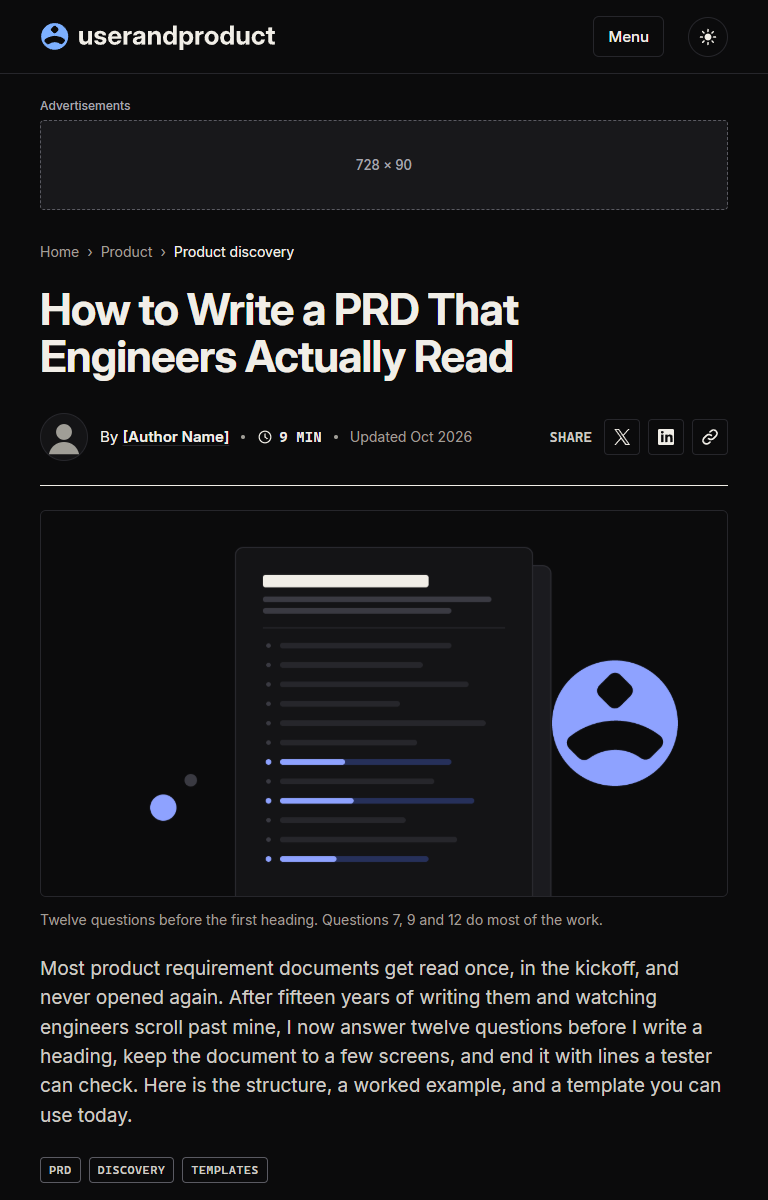
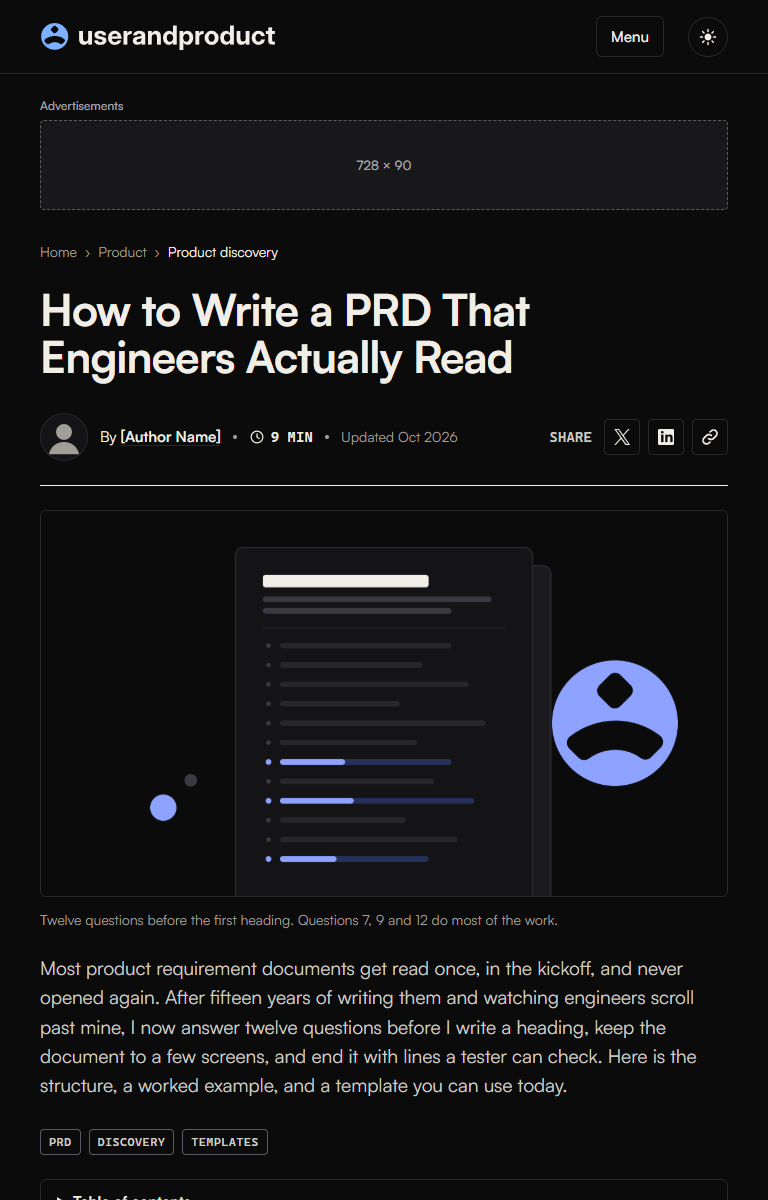
Mockups set in Satoshi (font files local only under the ITF licence); preloads updated

diff --git a/research/mockups/mockup.css b/research/mockups/mockup.css
@@ -2,7 +2,13 @@
    Plain CSS, no build step. Page-specific layout lives next to each page.
    option-1/ carries its own copy (option-1/css/mockup.css, option-1/js/mockup.js); this one is for the other mockup folders. */
 
-/* ---------- Fonts (self-hosted, SIL OFL) ---------- */
+/* ---------- Fonts (self-hosted) ---------- */
+/* Satoshi (ITF Free Font License, fonts/satoshi/): the mockup face for text, UI and headings.
+   One variable file per style covers the 300 to 900 weight axis (400 body, 500 labels, 600, 700 and 900 headings). */
+@font-face{font-family:"Satoshi";src:url("fonts/satoshi/Satoshi-Variable.woff2") format("woff2");font-weight:300 900;font-style:normal;font-display:swap}
+@font-face{font-family:"Satoshi";src:url("fonts/satoshi/Satoshi-VariableItalic.woff2") format("woff2");font-weight:300 900;font-style:italic;font-display:swap}
+/* Inter and Fraunces (SIL OFL): kept but no longer used by any token; the browser does not fetch an unused face.
+   The logo wordmark is outlined SVG (Inter Display Bold) and does not depend on these rules. */
 @font-face{font-family:"Inter Display";src:url("fonts/inter/InterDisplay-Bold.woff2") format("woff2");font-weight:700;font-style:normal;font-display:swap}
 @font-face{font-family:"Inter Display";src:url("fonts/inter/InterDisplay-SemiBold.woff2") format("woff2");font-weight:600;font-style:normal;font-display:swap}
 @font-face{font-family:"Inter";src:url("fonts/inter/Inter-Regular.woff2") format("woff2");font-weight:400;font-style:normal;font-display:swap}
@@ -32,9 +38,9 @@
   --focus:#2B46A0;
   --logo-light:block; --logo-dark:none;
 
-  --font-display:"Inter Display","Inter",system-ui,-apple-system,"Segoe UI",Roboto,sans-serif;
-  --font-ui:"Inter",system-ui,-apple-system,"Segoe UI",Roboto,sans-serif;
-  --font-serif:"Fraunces",Georgia,"Times New Roman",serif;
+  --font-display:"Satoshi",system-ui,-apple-system,"Segoe UI",Roboto,sans-serif;
+  --font-ui:"Satoshi",system-ui,-apple-system,"Segoe UI",Roboto,sans-serif;
+  --font-serif:"Fraunces",Georgia,"Times New Roman",serif;   /* unused since the switch to Satoshi */
   --font-body:var(--font-ui);
 
   /* type scale (desktop; pages step down on phones) */

diff --git a/research/mockups/option-1/css/mockup.css b/research/mockups/option-1/css/mockup.css
@@ -1,7 +1,13 @@
 /* userandproduct mockups: shared tokens, type and components.
    Plain CSS, no build step. Page-specific layout lives next to each page. */
 
-/* ---------- Fonts (self-hosted, SIL OFL) ---------- */
+/* ---------- Fonts (self-hosted) ---------- */
+/* Satoshi (ITF Free Font License, fonts/satoshi/): the mockup face for text, UI and headings.
+   One variable file per style covers the 300 to 900 weight axis (400 body, 500 labels, 600, 700 and 900 headings). */
+@font-face{font-family:"Satoshi";src:url("../assets/fonts/satoshi/Satoshi-Variable.woff2") format("woff2");font-weight:300 900;font-style:normal;font-display:swap}
+@font-face{font-family:"Satoshi";src:url("../assets/fonts/satoshi/Satoshi-VariableItalic.woff2") format("woff2");font-weight:300 900;font-style:italic;font-display:swap}
+/* Inter and Fraunces (SIL OFL): kept but no longer used by any token; the browser does not fetch an unused face.
+   The logo wordmark is outlined SVG (Inter Display Bold) and does not depend on these rules. */
 @font-face{font-family:"Inter Display";src:url("../assets/fonts/inter/InterDisplay-Bold.woff2") format("woff2");font-weight:700;font-style:normal;font-display:swap}
 @font-face{font-family:"Inter Display";src:url("../assets/fonts/inter/InterDisplay-SemiBold.woff2") format("woff2");font-weight:600;font-style:normal;font-display:swap}
 @font-face{font-family:"Inter";src:url("../assets/fonts/inter/Inter-Regular.woff2") format("woff2");font-weight:400;font-style:normal;font-display:swap}
@@ -31,9 +37,9 @@
   --focus:#2B46A0;
   --logo-light:block; --logo-dark:none;
 
-  --font-display:"Inter Display","Inter",system-ui,-apple-system,"Segoe UI",Roboto,sans-serif;
-  --font-ui:"Inter",system-ui,-apple-system,"Segoe UI",Roboto,sans-serif;
-  --font-serif:"Fraunces",Georgia,"Times New Roman",serif;
+  --font-display:"Satoshi",system-ui,-apple-system,"Segoe UI",Roboto,sans-serif;
+  --font-ui:"Satoshi",system-ui,-apple-system,"Segoe UI",Roboto,sans-serif;
+  --font-serif:"Fraunces",Georgia,"Times New Roman",serif;   /* unused since the switch to Satoshi */
   --font-body:var(--font-ui);
 
   /* type scale (desktop; pages step down on phones) */

diff --git a/research/mockups/option-1/css/article.css b/research/mockups/option-1/css/article.css
@@ -162,15 +162,15 @@
 
 /* =========================================================
    B: Magazine. One centred 760px column, display headline,
-   Fraunces body, figures out to 1000px, pull quote into the margin.
+   Satoshi body (was Fraunces before the switch), figures out to 1000px, pull quote into the margin.
    ========================================================= */
-.vb{--frame:1280px;--font-body:var(--font-serif);--fs-body:20px;--lh-body:1.65}
+.vb{--frame:1280px;--fs-body:20px;--lh-body:1.65}
 @media (max-width:599px){.vb{--fs-body:18px}}
 .vb .site-head{border-bottom:2px solid var(--rule-strong)}
 .vb .ad--leader{margin:var(--s5) auto 0;padding:0 var(--gutter)}
 .vb .hero{max-width:calc(1000px + 2 * var(--gutter));margin:0 auto;padding:var(--s7) var(--gutter) 0}
 .vb .hero h1{font-size:clamp(40px,8vw,84px);line-height:.98;letter-spacing:-.04em;text-wrap:balance}
-.vb .hero .deck{font:400 23px/1.45 var(--font-serif);color:var(--ink-2);max-width:760px;margin-top:var(--s5)}
+.vb .hero .deck{font:400 23px/1.45 var(--font-ui);color:var(--ink-2);max-width:760px;margin-top:var(--s5)}
 @media (max-width:599px){.vb .hero .deck{font-size:19px}}
 .vb .hero .byline{padding-top:var(--s4);border-top:1px solid var(--rule);max-width:760px}
 .vb .col{max-width:calc(760px + 2 * var(--gutter));margin:0 auto;padding:0 var(--gutter)}

diff --git a/research/mockups/option-1/build/variants/article-b.html b/research/mockups/option-1/build/variants/article-b.html
@@ -11,8 +11,7 @@
 <link rel="icon" href="../../assets/favicon/favicon.svg" type="image/svg+xml">
 <link rel="apple-touch-icon" href="../../assets/favicon/apple-touch-icon-180.png">
 <script>try{var t=localStorage.getItem("uap-theme");if(t==="dark"||t==="light"){document.documentElement.setAttribute("data-theme",t)}}catch(e){}</script>
-<link rel="preload" href="../../assets/fonts/fraunces/Fraunces9pt-Regular.woff2" as="font" type="font/woff2" crossorigin>
-<link rel="preload" href="../../assets/fonts/inter/InterDisplay-Bold.woff2" as="font" type="font/woff2" crossorigin>
+<link rel="preload" href="../../assets/fonts/satoshi/Satoshi-Variable.woff2" as="font" type="font/woff2" crossorigin>
 <link rel="stylesheet" href="../../css/mockup.css">
 <link rel="stylesheet" href="../../css/article.css">
 <script src="../../js/mockup.js" defer></script>

diff --git a/research/mockups/option-1/build/variants/article-c.html b/research/mockups/option-1/build/variants/article-c.html
@@ -11,8 +11,7 @@
 <link rel="icon" href="../../assets/favicon/favicon.svg" type="image/svg+xml">
 <link rel="apple-touch-icon" href="../../assets/favicon/apple-touch-icon-180.png">
 <script>try{var t=localStorage.getItem("uap-theme");if(t==="dark"||t==="light"){document.documentElement.setAttribute("data-theme",t)}}catch(e){}</script>
-<link rel="preload" href="../../assets/fonts/inter/Inter-Regular.woff2" as="font" type="font/woff2" crossorigin>
-<link rel="preload" href="../../assets/fonts/inter/InterDisplay-Bold.woff2" as="font" type="font/woff2" crossorigin>
+<link rel="preload" href="../../assets/fonts/satoshi/Satoshi-Variable.woff2" as="font" type="font/woff2" crossorigin>
 <link rel="stylesheet" href="../../css/mockup.css">
 <link rel="stylesheet" href="../../css/article.css">
 <script src="../../js/mockup.js" defer></script>

diff --git a/research/mockups/option-1/article.html b/research/mockups/option-1/article.html
@@ -11,8 +11,7 @@
 <link rel="icon" href="assets/favicon/favicon.svg" type="image/svg+xml">
 <link rel="apple-touch-icon" href="assets/favicon/apple-touch-icon-180.png">
 <script>try{var t=localStorage.getItem("uap-theme");if(t==="dark"||t==="light"){document.documentElement.setAttribute("data-theme",t)}}catch(e){}</script>
-<link rel="preload" href="assets/fonts/inter/Inter-Regular.woff2" as="font" type="font/woff2" crossorigin>
-<link rel="preload" href="assets/fonts/inter/InterDisplay-Bold.woff2" as="font" type="font/woff2" crossorigin>
+<link rel="preload" href="assets/fonts/satoshi/Satoshi-Variable.woff2" as="font" type="font/woff2" crossorigin>
 <link rel="stylesheet" href="css/mockup.css">
 <link rel="stylesheet" href="css/article.css">
 <script src="js/mockup.js" defer></script>

diff --git a/research/mockups/option-1/index.html b/research/mockups/option-1/index.html
@@ -11,8 +11,7 @@
 <link rel="icon" href="assets/favicon/favicon.svg" type="image/svg+xml">
 <link rel="apple-touch-icon" href="assets/favicon/apple-touch-icon-180.png">
 <script>try{var t=localStorage.getItem("uap-theme");if(t==="dark"||t==="light"){document.documentElement.setAttribute("data-theme",t)}}catch(e){}</script>
-<link rel="preload" href="assets/fonts/inter/Inter-Regular.woff2" as="font" type="font/woff2" crossorigin>
-<link rel="preload" href="assets/fonts/inter/InterDisplay-Bold.woff2" as="font" type="font/woff2" crossorigin>
+<link rel="preload" href="assets/fonts/satoshi/Satoshi-Variable.woff2" as="font" type="font/woff2" crossorigin>
 <link rel="stylesheet" href="css/mockup.css">
 <link rel="stylesheet" href="css/home.css">
 <script src="js/mockup.js" defer></script>

diff --git a/research/mockups/option-1/build/variants/index.html b/research/mockups/option-1/build/variants/index.html
@@ -10,8 +10,7 @@
 <link rel="icon" href="../../assets/favicon/favicon.ico" sizes="48x48">
 <link rel="icon" href="../../assets/favicon/favicon.svg" type="image/svg+xml">
 <script>try{var t=localStorage.getItem("uap-theme");if(t==="dark"||t==="light"){document.documentElement.setAttribute("data-theme",t)}}catch(e){}</script>
-<link rel="preload" href="../../assets/fonts/inter/Inter-Regular.woff2" as="font" type="font/woff2" crossorigin>
-<link rel="preload" href="../../assets/fonts/inter/InterDisplay-Bold.woff2" as="font" type="font/woff2" crossorigin>
+<link rel="preload" href="../../assets/fonts/satoshi/Satoshi-Variable.woff2" as="font" type="font/woff2" crossorigin>
 <link rel="stylesheet" href="../../css/mockup.css">
 <script src="../../js/mockup.js" defer></script>
 <style>

diff --git a/research/mockups/option-1/build/build_article.py b/research/mockups/option-1/build/build_article.py
@@ -48,11 +48,9 @@ def avatar(size, title="Photo of [Author Name] (placeholder)"):
             '<path d="M11 56c2.5-11 11-17 21-17s18.5 6 21 17Z" fill="currentColor"/></svg>')
 
 def head(variant, label, preload_serif=False):
-    pre = ('<link rel="preload" href="assets/fonts/inter/Inter-Regular.woff2" as="font" type="font/woff2" crossorigin>\n'
-           '<link rel="preload" href="assets/fonts/inter/InterDisplay-Bold.woff2" as="font" type="font/woff2" crossorigin>\n')
-    if preload_serif:
-        pre = ('<link rel="preload" href="assets/fonts/fraunces/Fraunces9pt-Regular.woff2" as="font" type="font/woff2" crossorigin>\n'
-               '<link rel="preload" href="assets/fonts/inter/InterDisplay-Bold.woff2" as="font" type="font/woff2" crossorigin>\n')
+    # Satoshi: one variable file carries the body, the labels and the headline, so one preload covers the fold.
+    # preload_serif is kept for the call in variant B; the serif body is gone since the switch to Satoshi.
+    pre = '<link rel="preload" href="assets/fonts/satoshi/Satoshi-Variable.woff2" as="font" type="font/woff2" crossorigin>\n'
     return f"""<!doctype html>
 <html lang="en-US">
 <head>

diff --git a/research/mockups/fonts/satoshi/README.md b/research/mockups/fonts/satoshi/README.md
@@ -1,0 +1,61 @@
+# Satoshi
+
+Typeface by Indian Type Foundry, free under the ITF Free Font License (FFL).
+
+- Source: https://www.fontshare.com/fonts/satoshi (family package from
+  https://api.fontshare.com/v2/fonts/download/satoshi, the "Satoshi_Complete" zip)
+- Version: 2.000 (font name table: "Version 2.000"; "Copyright 2017-2021 Indian Type Foundry. All rights reserved.")
+- Licence: ITF Free Font License, Version 2.0 - 17 Aug 2026, saved here as `FFL.txt`
+- Downloaded: 10 October 2026
+- Files are exactly as shipped in the package (the licence forbids subsetting or format conversion, so there are
+  no Latin-subset copies like the Inter and Fraunces ones).
+
+## What is here
+
+| File | Use |
+| --- | --- |
+| `Satoshi-Variable.woff2`, `Satoshi-VariableItalic.woff2` | The web files the mockups load (weight axis 300 to 900, so 400, 500, 600, 700 and 900 all come from one file) |
+| `Satoshi-Regular/Italic/Medium/MediumItalic/Bold/BoldItalic/Black/BlackItalic.woff2` | Static web files, kept as a fallback option |
+| The same eight as `.otf`, plus `Satoshi-Variable.ttf` and `Satoshi-VariableItalic.ttf` | Desktop files for the SVG text-to-path tool and design work |
+| `FFL.txt` | The licence text, unchanged |
+
+`option-1/assets/fonts/satoshi/` holds copies of the two variable `.woff2` files and the licence.
+
+## What the licence allows (its own words)
+
+Use, personal and commercial (section 01): "You are hereby granted a non-exclusive, non-assignable,
+non-transferable and terminable license to access, download, install, store and use the Font Software for
+personal or commercial purposes, free of charge and for an unlimited period of time, subject to the terms of this
+License."
+
+Web embedding and self-hosting (section 01): "You may self-host the Font Software on your own servers or
+infrastructure for use on your own websites and applications, including through standard webfont technologies
+such as CSS @font-face."
+
+Logos (section 01): "You may use the Font Software to create logos, wordmarks, graphic elements, images, vector
+files, scalable drawings and other creative works."
+
+No modifying (section 02): "You may not modify, edit, adapt, translate, reverse engineer, decompile, disassemble
+or otherwise alter the Font Software or the typeface designs embodied therein, in whole or in part, without the
+prior written consent of the Licensor. This includes modifying or replacing glyphs, subsetting, format
+conversion, or altering font names, copyright information, ownership information or other metadata."
+
+No selling or redistributing (section 02): "The Font Software may not, beyond the permitted copies and uses
+defined herein, be distributed, duplicated, loaned, resold, sublicensed, transferred, donated, given away or
+otherwise made available to any other person or entity, whether for free or for a fee. This includes
+distributing the Font Software through another font website, font library, marketplace, repository, download
+service, application or platform, or by email, removable media, publicly accessible servers, file-sharing
+services, peer-to-peer networks or any other means."
+
+No passing the files to contractors (section 02): "You may not provide the Font Software directly to external
+designers, agencies, contractors, printers or other service providers. Any third party wishing to use the Font
+Software must obtain their own copy directly from Fontshare and be independently bound by this License."
+
+## Git: the files are not committed
+
+The project repository on GitHub is public. The licence names "repository" and "publicly accessible servers" as
+forbidden ways of making the files available, so the font files in this folder and in
+`option-1/assets/fonts/satoshi/` are listed in `.gitignore`; only this README is tracked. Anyone cloning the repo
+gets the files from Fontshare and puts them here. Serving them from our own website through `@font-face` is
+allowed (section 01), so the live site can self-host them. The owner decides whether this arrangement changes
+(for example by making the repository private).

diff --git a/research/mockups/README.md b/research/mockups/README.md
@@ -26,6 +26,13 @@ changes. A later redesign would be `option-2/` beside it.
 - `fonts/`: OFL fonts with their licence files (Inter Display is the logo face). Added 9 Oct for the page
   mockups: Inter text cuts (Regular, Italic, Medium, SemiBold, from the same Inter 4.1 release) and Fraunces 9pt
   (Regular, Italic, SemiBold, from the same Fraunces 1.000 release), plus Latin-subset `.woff2` files for the web.
+  From 10 Oct 2026 the page mockups use Satoshi (`fonts/satoshi/`, Satoshi 2.000 from Fontshare, ITF Free Font
+  License 2.0 in `FFL.txt`) for body, UI and headings: `--font-ui`, `--font-body` and `--font-display` point at it,
+  loaded from the variable `.woff2` (weights 300 to 900, roman and italic). The licence forbids redistribution
+  through a public repository, so the Satoshi font files are git-ignored and only `fonts/satoshi/README.md` is
+  tracked; see that README for the licence wording and how to fetch the files. Inter stays for the logo wordmark
+  (Inter Display Bold, outlined in `final-logo-2/`) and the figure and thumbnail generators. Fraunces is kept but
+  unused (variant B's serif body and deck now use Satoshi); its `@font-face` rules remain and are never fetched.
 - `tools/`: `wordmark.py` (text to SVG paths), `render.py` (SVG to PNG), `brand_assets.py` (favicons, app icons,
   social and LinkedIn images), `build_typeboard.py` (builder for the archived type board; it writes into
   `logos/typeboard/`, so it only runs against an unpacked archive).
@@ -44,8 +51,9 @@ changes. A later redesign would be `option-2/` beside it.
   - `css/`, `js/`: the site's own copies of `mockup.css` (font paths pointed at `assets/fonts/`) and `mockup.js`,
     plus `home.css` and `article.css`.
   - `assets/logo/` (the two lockups the header and footer use, from `final-logo-2/svg/`), `assets/favicon/` (the
-    favicons the pages link, from `final-logo-2/favicon/`), `assets/fonts/` (only the nine `.woff2` files the css
-    loads, with their licence files).
+    favicons the pages link, from `final-logo-2/favicon/`), `assets/fonts/` (the `.woff2` files the css
+    loads, with their licence files: `satoshi/` holds the two Satoshi variable files the pages use, git-ignored under
+    the font licence; the Inter and Fraunces files stay but are no longer loaded).
   - `img/`: every image the home page and the article use, plus `thumbs/` (article rail and Just published) and
     `explainers/` (the explainer gallery); `img/README.md` records the home thumbnail styles.
   - `shots/`: screenshots and their README (home at 375 and 1280, article A at ten viewports, the variant thumbnails).

diff --git a/research/discussion/context.md b/research/discussion/context.md
@@ -902,3 +902,7 @@ the background it is drawn on. Rules rewritten; the generator's accent limits be
 Owner: image file names (and alt text) follow the SEO brief: the article's SEO slug from the target phrase plus words
 that say what the image shows, set by the researcher or SEO reviewer, never generic. Written into illustration-rules.md
 and the thumbnail skill.
+Committed (10 Oct): illustration generator with no accent caps (any element kind can take a colour; 3:1 shapes and
+4.5:1 labels still enforced; adjacency notes only); rules foundation-only; SEO image names in both rule sets.
+Owner (10 Oct): use the Satoshi family from Fontshare for the mockups instead of the current type (Inter text and Fraunces). Being self-hosted under research/mockups/fonts/satoshi/ with its licence and switched in both mockup.css files; the logo wordmark (Inter Display Bold) and the figure generator's Inter unchanged for now.
+Owner: the Satoshi change is a plain font swap in the CSS only; logo, images and generators untouched; no scale retuning yet.
